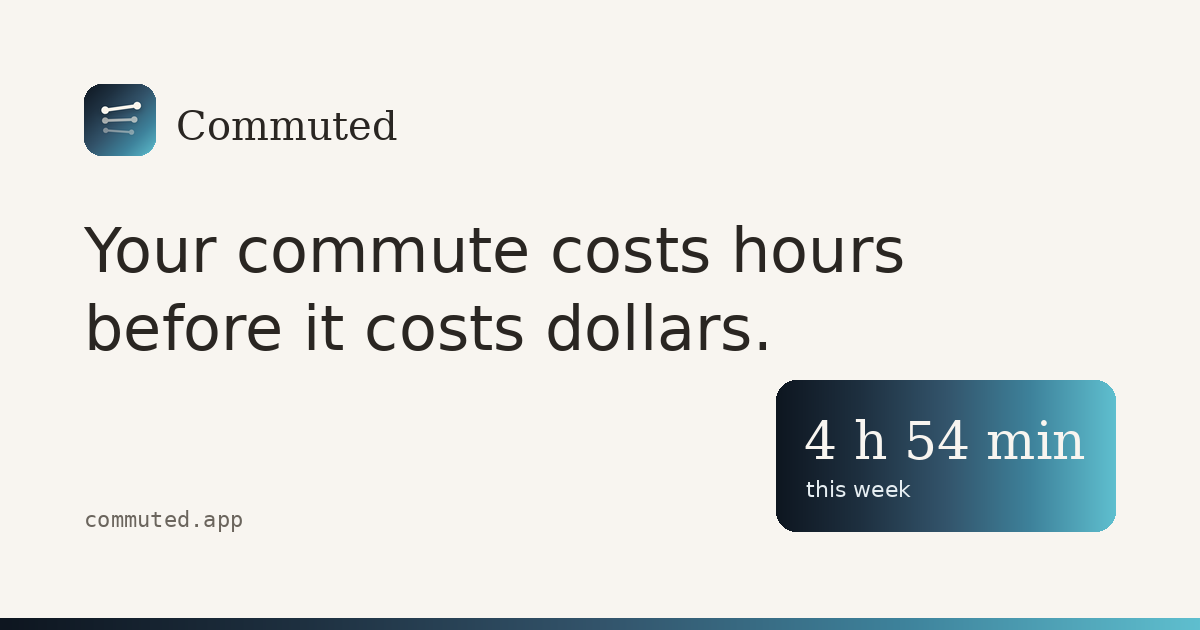
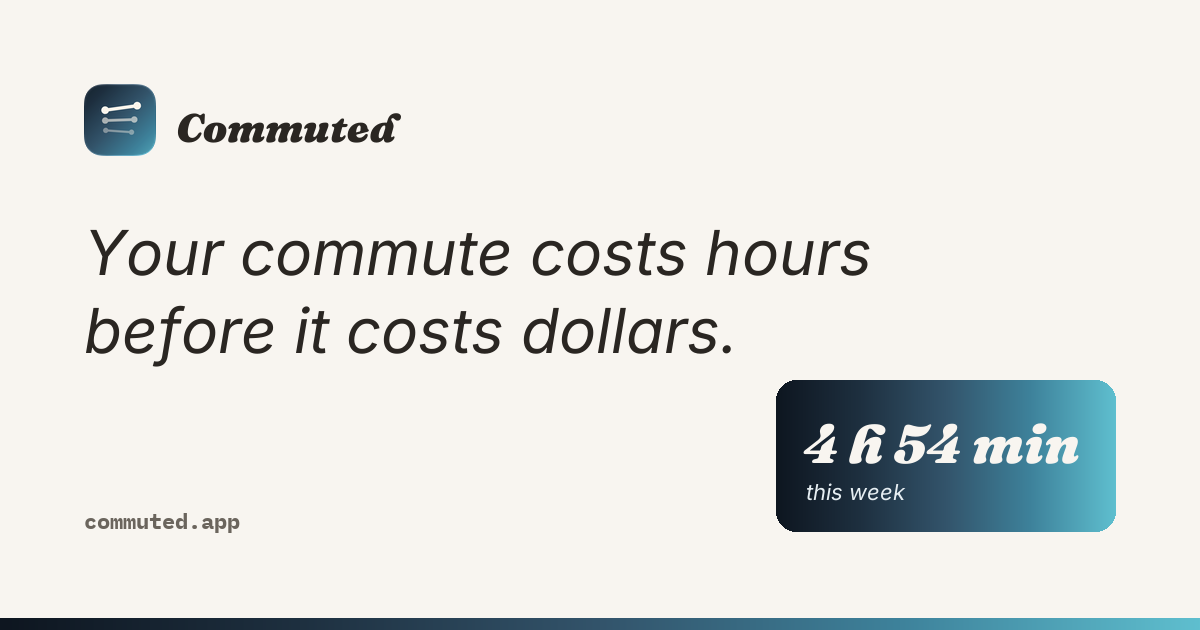
Updated og-image file

diff --git a/make_og.py b/make_og.py
@@ -1,0 +1,231 @@
+#!/usr/bin/env python3
+"""
+make_og.py, generate a 1200x630 Open Graph image for commuted.app.
+
+Reuses the exported apple-touch-icon.png as the brand mark, so the icon in
+the preview matches exactly what shows as the favicon, the iOS home screen
+icon and the masthead on the site itself.
+
+Usage
+-----
+Place this script in the site repo root, next to apple-touch-icon.png, then:
+
+    python3 make_og.py
+
+Or point it somewhere else:
+
+    python3 make_og.py --icon path/to/apple-touch-icon.png --out .
+
+Output
+------
+og-image.png, 1200x630.
+
+Fonts
+-----
+Fraunces for the wordmark, Inter for the headline, IBM Plex Mono for the
+URL. Same roles as the site's stylesheet. The script looks for them in the
+usual system font directories and in ./fonts/. Without them it falls back to
+stand ins and prints a warning: the layout will be right but the letterforms
+will not be Commuted's, so do not ship that version.
+
+Requirements
+------------
+    pip install Pillow
+"""
+
+import argparse
+import sys
+from pathlib import Path
+from PIL import Image, ImageDraw, ImageFont
+
+# ---------------------------------------------------------------------------
+# Canvas and palette, taken from the site's stylesheet
+# ---------------------------------------------------------------------------
+
+W, H = 1200, 630
+PAD = 84
+
+CREAM = (0xF8, 0xF5, 0xF0)
+INK = (0x2A, 0x26, 0x22)
+INK_SOFT = (0x6B, 0x65, 0x5D)
+
+ASPHALT = (0x0E, 0x16, 0x20)
+SLATE = (0x1E, 0x30, 0x40)
+STEEL = (0x33, 0x54, 0x6B)
+CHANNEL = (0x3E, 0x82, 0x9B)
+SIGNAL = (0x5F, 0xBF, 0xCF)
+
+GRADIENT_STOPS = [
+    (0.00, ASPHALT),
+    (0.25, SLATE),
+    (0.50, STEEL),
+    (0.75, CHANNEL),
+    (1.00, SIGNAL),
+]
+
+WORDMARK = "Commuted"
+HEADLINE = ["Your commute costs hours", "before it costs dollars."]
+FIGURE = "4 h 54 min"
+FIGURE_CAPTION = "this week"
+URL = "commuted.app"
+
+# ---------------------------------------------------------------------------
+# Fonts
+# ---------------------------------------------------------------------------
+
+FONT_ROOTS = [
+    Path("./fonts"),
+    # The studio's shared font folder, so Fraunces, Inter and Plex Mono do
+    # not have to be installed system wide on whichever Mac this runs on.
+    Path.home() / "Developer/App Development Files/Developer Utilities/Fonts",
+    Path.home() / "Library/Fonts",
+    Path("/Library/Fonts"),
+    Path("/System/Library/Fonts"),
+    Path("/System/Library/Fonts/Supplemental"),
+    Path("/usr/share/fonts"),
+    Path("/usr/local/share/fonts"),
+]
+
+FALLBACKS = [
+    Path("/usr/share/fonts/truetype/dejavu/DejaVuSerif.ttf"),
+    Path("/usr/share/fonts/truetype/dejavu/DejaVuSans.ttf"),
+    Path("/usr/share/fonts/truetype/dejavu/DejaVuSansMono.ttf"),
+]
+
+
+def find_font(patterns):
+    for root in FONT_ROOTS:
+        if not root.exists():
+            continue
+        for pattern in patterns:
+            for match in sorted(root.rglob(pattern)):
+                return match
+    return None
+
+
+def load(patterns, size, fallback_index):
+    path = find_font(patterns)
+    if path is None:
+        fallback = FALLBACKS[fallback_index]
+        if fallback.exists():
+            return ImageFont.truetype(str(fallback), size), False
+        return ImageFont.load_default(), False
+    return ImageFont.truetype(str(path), size), True
+
+
+# ---------------------------------------------------------------------------
+# Drawing
+# ---------------------------------------------------------------------------
+
+def gradient_band(width, height):
+    """The 135 degree arc, flattened to a horizontal band."""
+    band = Image.new("RGB", (width, height))
+    draw = ImageDraw.Draw(band)
+    for x in range(width):
+        t = x / max(width - 1, 1)
+        for i in range(len(GRADIENT_STOPS) - 1):
+            p1, c1 = GRADIENT_STOPS[i]
+            p2, c2 = GRADIENT_STOPS[i + 1]
+            if p1 <= t <= p2:
+                local = (t - p1) / (p2 - p1)
+                color = tuple(
+                    int(c1[j] + (c2[j] - c1[j]) * local) for j in range(3)
+                )
+                draw.line([(x, 0), (x, height)], fill=color)
+                break
+    return band
+
+
+def rounded(img, radius):
+    mask = Image.new("L", img.size, 0)
+    ImageDraw.Draw(mask).rounded_rectangle(
+        [0, 0, img.size[0] - 1, img.size[1] - 1], radius=radius, fill=255
+    )
+    out = Image.new("RGBA", img.size, (0, 0, 0, 0))
+    out.paste(img, (0, 0), mask=mask)
+    return out
+
+
+def build(icon_path):
+    canvas = Image.new("RGB", (W, H), CREAM)
+    draw = ImageDraw.Draw(canvas)
+
+    fraunces, ok_f = load(["Fraunces*.ttf", "Fraunces*.otf"], 40, 0)
+    inter_head, ok_i = load(["Inter*.ttf", "Inter*.otf"], 62, 1)
+    mono, ok_m = load(["IBMPlexMono*.ttf", "IBM*Plex*Mono*.ttf"], 22, 2)
+    fraunces_big, _ = load(["Fraunces*.ttf", "Fraunces*.otf"], 76, 0)
+    inter_small, _ = load(["Inter*.ttf", "Inter*.otf"], 22, 1)
+
+    if not (ok_f and ok_i and ok_m):
+        print("WARNING: one or more of Fraunces, Inter, IBM Plex Mono was not")
+        print("         found. Falling back to stand in faces. The layout will")
+        print("         be right but do not ship this version.")
+
+    # Masthead ------------------------------------------------------------
+    y = PAD
+    if icon_path and Path(icon_path).exists():
+        icon = Image.open(icon_path).convert("RGBA").resize((72, 72), Image.LANCZOS)
+        canvas.paste(rounded(icon, 17), (PAD, y), rounded(icon, 17))
+        text_x = PAD + 72 + 20
+    else:
+        print("NOTE: no apple-touch-icon.png found, drawing without the mark.")
+        text_x = PAD
+
+    draw.text((text_x, y + 18), WORDMARK, font=fraunces, fill=INK)
+
+    # Headline ------------------------------------------------------------
+    y = 214
+    for line in HEADLINE:
+        draw.text((PAD, y), line, font=inter_head, fill=INK)
+        y += 78
+
+    # The figure, as a small gradient card in the lower right --------------
+    # Placed below the headline rather than beside it: at this size the
+    # headline runs most of the canvas width and a card alongside it collides.
+    card_w, card_h = 340, 152
+    card_x, card_y = W - PAD - card_w, H - PAD - card_h - 14
+
+    card = rounded(gradient_band(card_w, card_h), 20)
+    canvas.paste(card, (card_x, card_y), card)
+
+    cdraw = ImageDraw.Draw(canvas)
+
+    # Shrink the figure until it fits the card with margin to spare.
+    size = 76
+    while size > 30:
+        candidate, _ = load(["Fraunces*.ttf", "Fraunces*.otf"], size, 0)
+        if cdraw.textlength(FIGURE, font=candidate) <= card_w - 56:
+            fraunces_big = candidate
+            break
+        size -= 2
+
+    cdraw.text((card_x + 28, card_y + 30), FIGURE, font=fraunces_big, fill=CREAM)
+    cdraw.text((card_x + 30, card_y + 30 + size + 14), FIGURE_CAPTION,
+               font=inter_small, fill=(230, 238, 242))
+
+    # URL ------------------------------------------------------------------
+    draw.text((PAD, H - PAD - 40), URL, font=mono, fill=INK_SOFT)
+
+    # Gradient rule along the bottom edge, the brand signature -------------
+    band = gradient_band(W, 12)
+    canvas.paste(band, (0, H - 12))
+
+    return canvas
+
+
+def main():
+    parser = argparse.ArgumentParser()
+    parser.add_argument("--icon", default="apple-touch-icon.png")
+    parser.add_argument("--out", default=".")
+    args = parser.parse_args()
+
+    out_dir = Path(args.out)
+    out_dir.mkdir(parents=True, exist_ok=True)
+    out_path = out_dir / "og-image.png"
+
+    build(args.icon).save(out_path, optimize=True)
+    print(f"wrote {out_path} ({W}x{H})")
+
+
+if __name__ == "__main__":
+    main()
